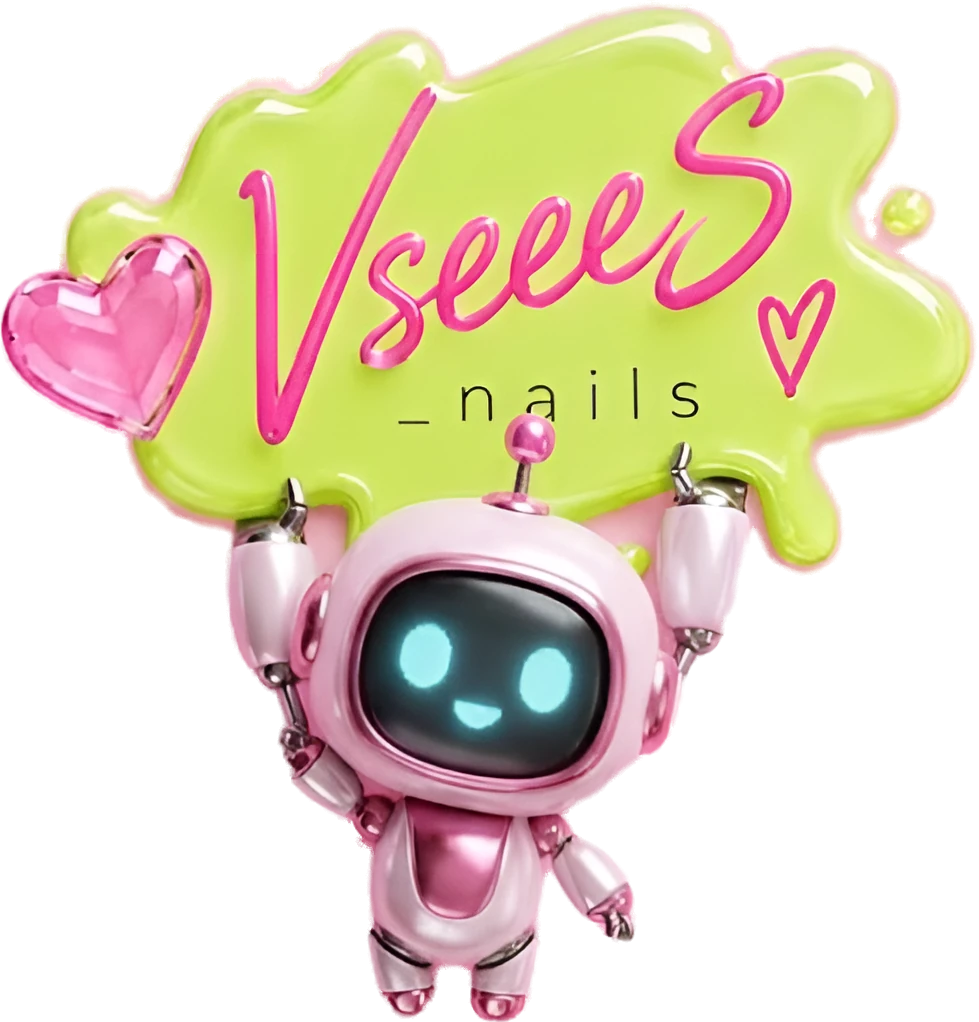
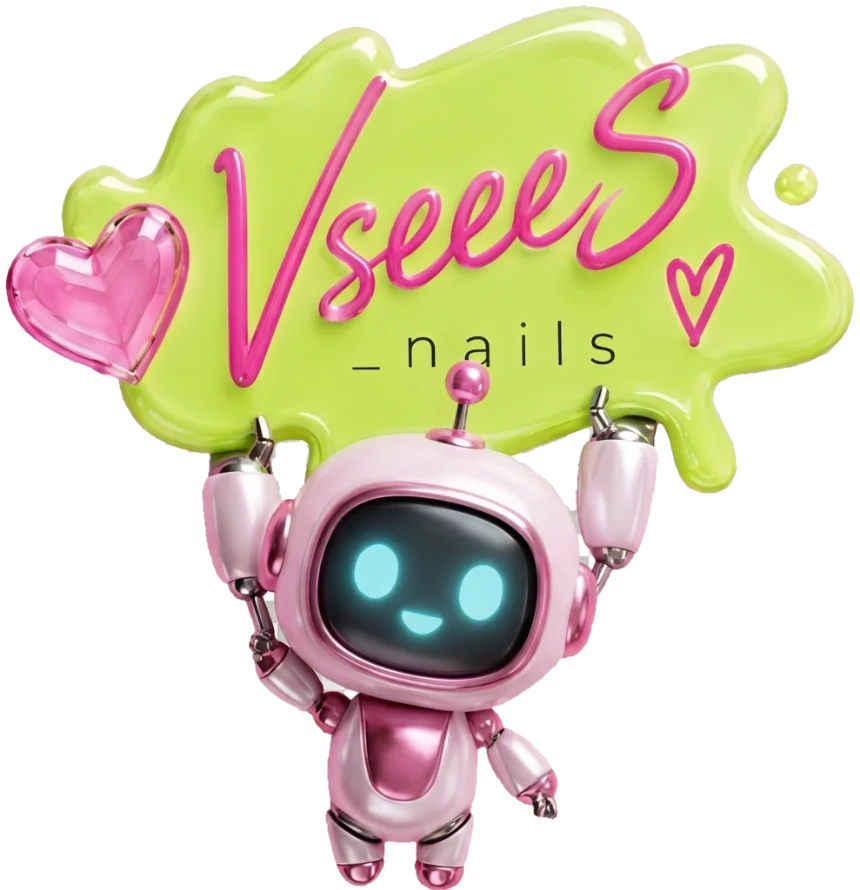
New start-up mascot; polish the boot screen
- New mascot artwork (checkerboard cut out, cropped, 860×890 WebP,
  61 KB); width/height on both <img> updated.
- vh fallback before every dvh size: without it a WebView lacking dvh
  drops the whole declaration and shows the image at natural size.
- Dark theme: the floor shadow becomes an accent glow (black was
  invisible on the dark ground); same --boot-shadow values in both apps.
- Mascot slightly larger (256px).

diff --git a/src/admin/admin.css b/src/admin/admin.css
@@ -24,8 +24,8 @@
   --danger: #8e4238;
   --scrim: rgba(15, 13, 16, 0.42);
   --knob: #ffffff;
-  /* Тень маскота на экране запуска. */
-  --boot-shadow: rgba(23, 22, 26, 0.16);
+  /* Тень под маскотом на экране запуска; в тёмной теме — отсвет акцента. */
+  --boot-shadow: rgba(23, 22, 26, 0.18);
 }
 
 html[data-theme="dark"] {
@@ -43,7 +43,7 @@ html[data-theme="dark"] {
   --danger: #e39b95;
   --scrim: rgba(15, 13, 16, 0.42);
   --knob: #ffffff;
-  --boot-shadow: rgba(0, 0, 0, 0.4);
+  --boot-shadow: rgba(226, 12, 209, 0.22);
 }
 
 @media (prefers-color-scheme: dark) {
@@ -62,7 +62,7 @@ html[data-theme="dark"] {
     --danger: #e39b95;
     --scrim: rgba(15, 13, 16, 0.42);
     --knob: #ffffff;
-    --boot-shadow: rgba(0, 0, 0, 0.4);
+    --boot-shadow: rgba(226, 12, 209, 0.22);
   }
 }
 
@@ -247,13 +247,15 @@ input:focus {
 
 /* Робот держит вывеску над собой — он парит, а не висит на ней. */
 .boot-mascot {
-  width: min(240px, 64vw, 38dvh);
+  width: min(256px, 68vw, 40vh);
+  width: min(256px, 68vw, 40dvh);
   height: auto;
   animation: bootFloat 3.2s ease-in-out infinite;
 }
 
 .boot-floor {
-  width: min(120px, 32vw, 19dvh);
+  width: min(128px, 34vw, 20vh);
+  width: min(128px, 34vw, 20dvh);
   height: 14px;
   margin-top: 10px;
   border-radius: 50%;

diff --git a/src/index.css b/src/index.css
@@ -29,7 +29,7 @@
   --accent-soft: rgba(226, 12, 209, 0.1);
   --danger: #8e4238;
   --ok: #3f6b4f;
-  /* Тень под маскотом на экране запуска. */
+  /* Тень под маскотом на экране запуска; в тёмной теме — отсвет акцента. */
   --boot-shadow: rgba(23, 22, 26, 0.18);
 
 
@@ -53,7 +53,7 @@ html[data-theme="dark"] {
   --accent-soft: rgba(226, 12, 209, 0.15);
   --danger: #e39b95;
   --ok: #8fbf9f;
-  --boot-shadow: rgba(0, 0, 0, 0.5);
+  --boot-shadow: rgba(226, 12, 209, 0.22);
 
 
 
@@ -76,7 +76,7 @@ html[data-theme="dark"] {
     --accent-soft: rgba(226, 12, 209, 0.15);
     --danger: #e39b95;
     --ok: #8fbf9f;
-  --boot-shadow: rgba(0, 0, 0, 0.5);
+  --boot-shadow: rgba(226, 12, 209, 0.22);
 
 
 
@@ -993,13 +993,15 @@ button {
 
 /* Робот держит вывеску над собой — он парит, а не висит на ней. */
 .boot-mascot {
-  width: min(240px, 64vw, 38dvh);
+  width: min(256px, 68vw, 40vh);
+  width: min(256px, 68vw, 40dvh);
   height: auto;
   animation: bootFloat 3.2s ease-in-out infinite;
 }
 
 .boot-floor {
-  width: min(120px, 32vw, 19dvh);
+  width: min(128px, 34vw, 20vh);
+  width: min(128px, 34vw, 20dvh);
   height: 14px;
   margin-top: 10px;
   border-radius: 50%;

diff --git a/src/admin/components/BootScreen.jsx b/src/admin/components/BootScreen.jsx
@@ -22,8 +22,8 @@ export default function BootScreen({ leaving, error, onRetry }) {
           <img
             className="boot-mascot"
             src="/loading/mascot.webp"
-            width="979"
-            height="1022"
+            width="860"
+            height="890"
             alt=""
             aria-hidden="true"
             decoding="async"

diff --git a/src/ui.jsx b/src/ui.jsx
@@ -162,8 +162,8 @@ export function BootScreen({ leaving, error, onRetry }) {
           <img
             className="boot-mascot"
             src="/loading/mascot.webp"
-            width="979"
-            height="1022"
+            width="860"
+            height="890"
             alt=""
             aria-hidden="true"
             decoding="async"
